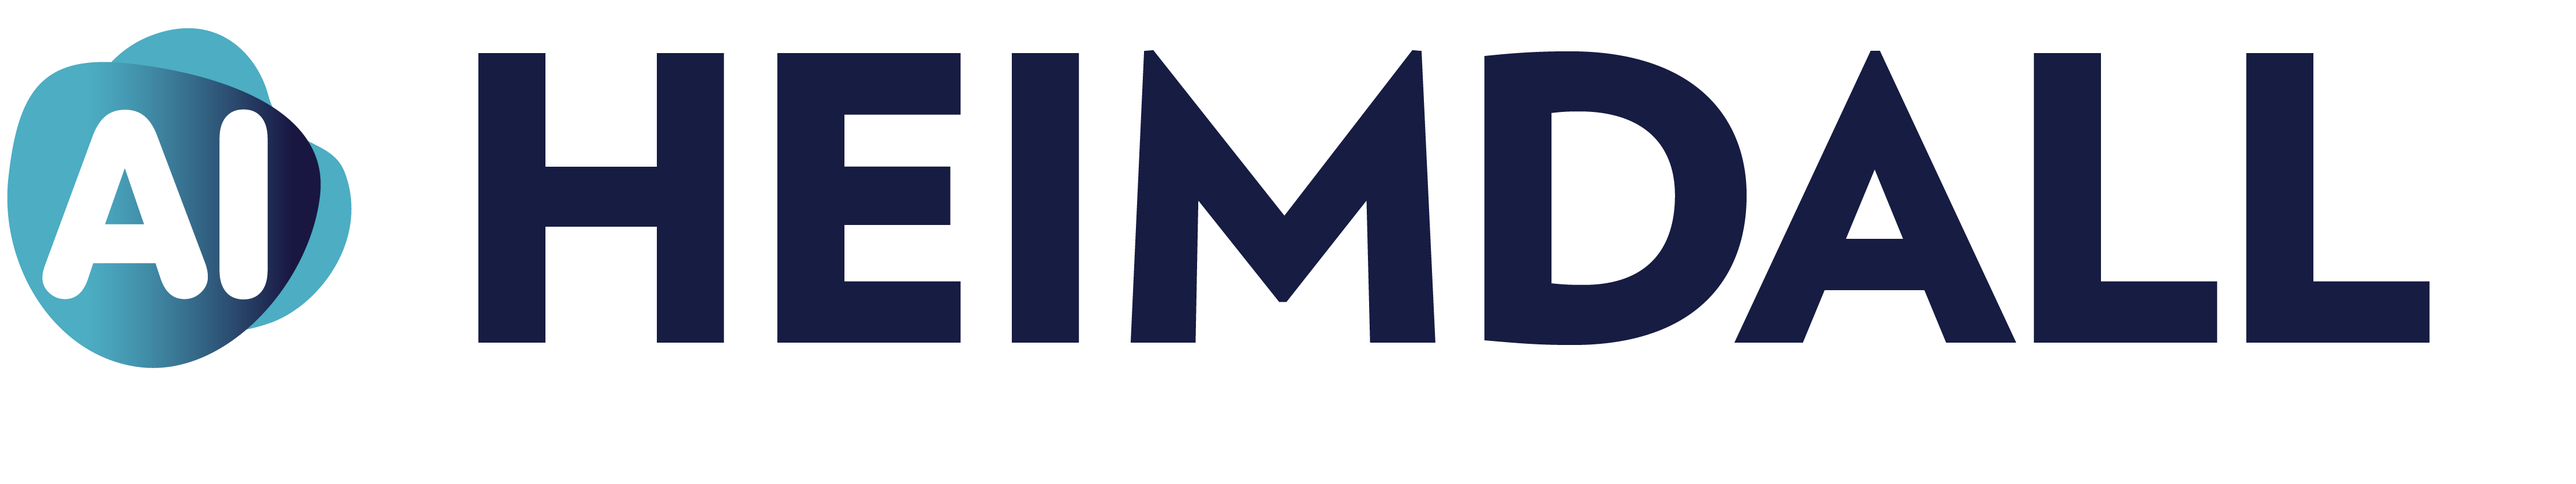
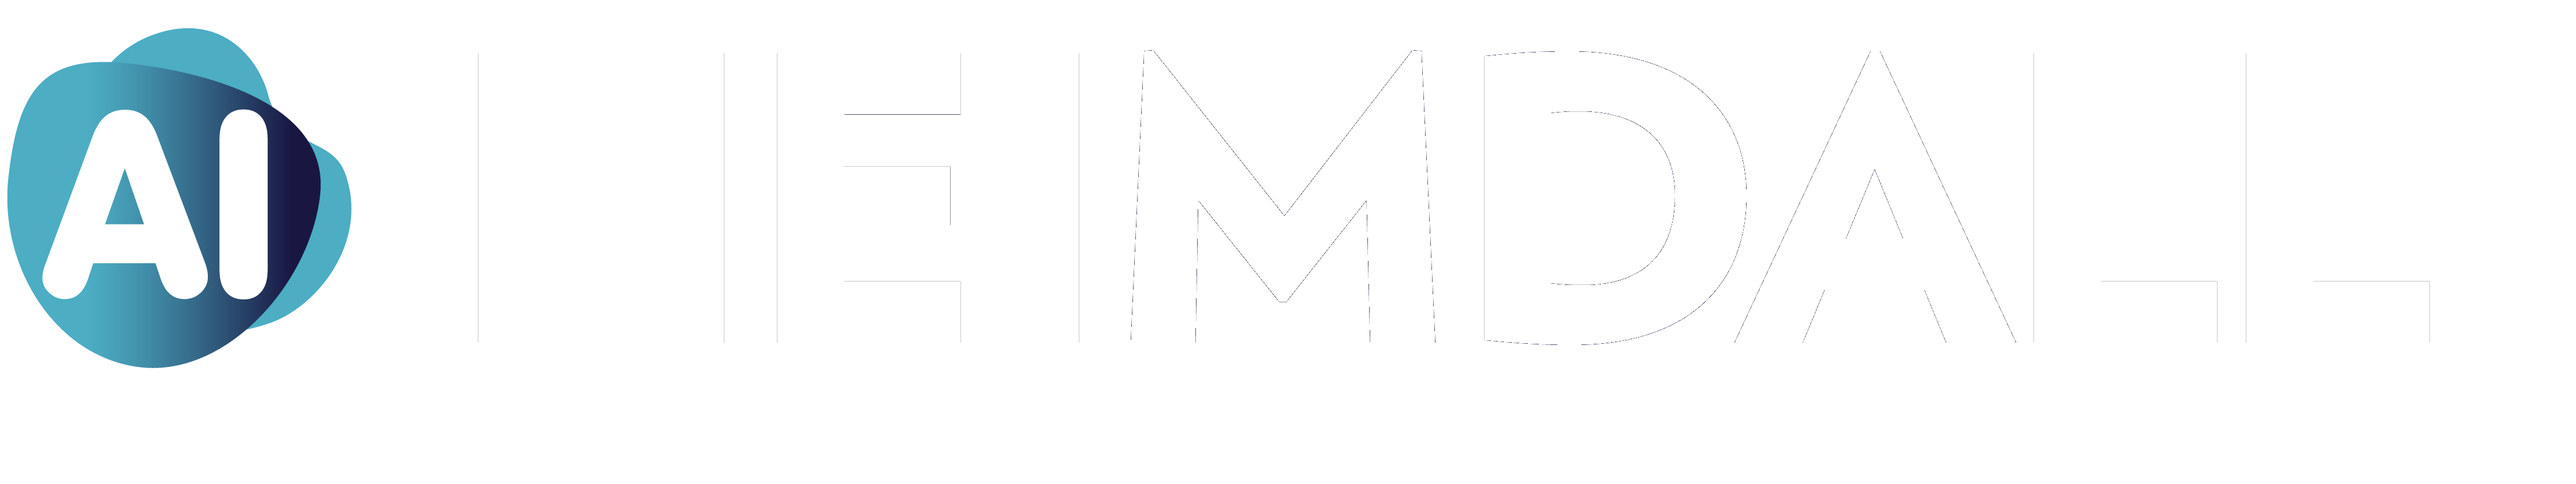
feat: update flow template fetching logic and improve header layout

Changed region(s): [[0.1869, 0.093, 0.9655, 0.7128]]

diff --git a/src/layouts/components/header/index.tsx b/src/layouts/components/header/index.tsx
@@ -63,7 +63,7 @@ const RagHeader = () => {
         display: 'flex',
         justifyContent: 'space-between',
         alignItems: 'center',
-        height: '72px',
+        height: '60px',
   boxShadow: '0 0 .8rem rgba(0, 0, 0, .3)',
       }}
     >
@@ -73,8 +73,8 @@ const RagHeader = () => {
           onClick={handleLogoClick}
           className={styles.logoWrapper}
         >
-          <img src={require('@/assets/heimdal.png')} alt="" className={styles.appIcon} />
-          <span className={styles.appName}>{appConf.appName}</span>
+          <img src={require('@/assets/heimdal2.png')} alt="" className={styles.appIcon} />
+          {/* <span className={styles.appName}>{appConf.appName}</span> */}
         </Space>
       </a>
       <Space size={[0, 8]} wrap>

diff --git a/src/layouts/components/right-toolbar/index.tsx b/src/layouts/components/right-toolbar/index.tsx
@@ -30,14 +30,14 @@ const Circle = ({ children, ...restProps }: React.PropsWithChildren) => {
   );
 };
 
-const handleGithubCLick = () => {
+/* const handleGithubCLick = () => {
   window.open('https://github.com/infiniflow/ragflow', 'target');
 };
 
 const handleDocHelpCLick = () => {
   window.open('https://ragflow.io/docs/dev/category/guides', 'target');
 };
-
+ */
 const RightToolBar: React.FC<RightToolBarProps> = ({
   navItems = [],
   onNavigate,

diff --git a/src/layouts/components/header/index.less b/src/layouts/components/header/index.less
@@ -14,11 +14,15 @@
 
 .logoWrapper {
   .pointerCursor;
+  display: flex;
+  align-items: center;
+  height: 100%; /* Make the wrapper fill the header's height */
 }
 
 .appIcon {
   vertical-align: middle;
-  max-width: 36px;
+  height: 36px;
+  width: auto;
 }
 
 .appName {
